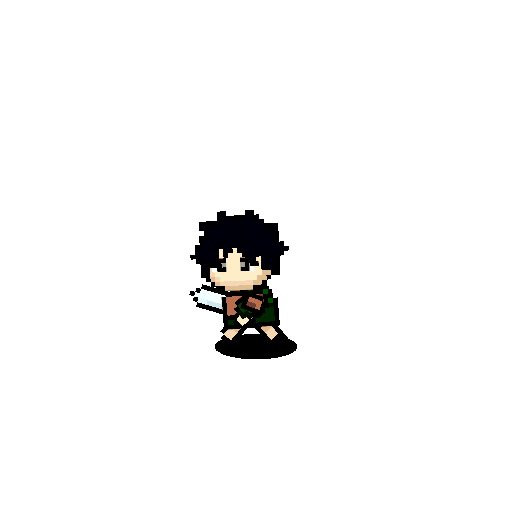
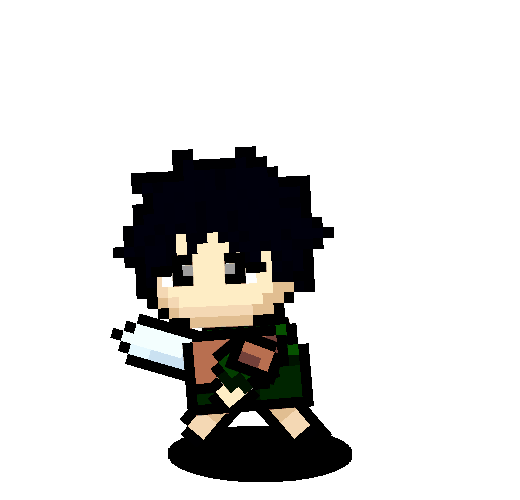
근거리,원거리 몬스터 이미지 변경

Changed region(s): [[0.2188, 0.27, 0.6875, 0.99]]

diff --git a/GP_FinalProj/RangedMonster.cpp b/GP_FinalProj/RangedMonster.cpp
@@ -11,14 +11,7 @@ RangedMonster::RangedMonster(int x, int y) : Monster(x, y), health(3), shootCool
         "../../Resource/Monster/shooter_frame3.png",
         "../../Resource/Monster/shooter_frame4.png",
         "../../Resource/Monster/shooter_frame5.png",
-        "../../Resource/Monster/shooter_frame6.png",
-        "../../Resource/Monster/shooter_frame7.png",
-        "../../Resource/Monster/shooter_frame8.png",
-        "../../Resource/Monster/shooter_frame9.png",
-        "../../Resource/Monster/shooter_frame10.png",
-        "../../Resource/Monster/shooter_frame11.png",
-        "../../Resource/Monster/shooter_frame12.png",
-        "../../Resource/Monster/shooter_frame13.png",
+        "../../Resource/Monster/shooter_frame6.png"
     };
     LoadTextures(frameFiles);
 }
@@ -82,7 +75,7 @@ void RangedMonster::ShootProjectile(const SDL_Rect& playerRect) {
         float velX = deltaX / distance * 200.0f; // Adjust speed as needed
         float velY = deltaY / distance * 200.0f; // Adjust speed as needed
 
-        SDL_Rect projectileRect = { x + 64, y + 64, 16, 16 }; // Initial projectile position and size
+        SDL_Rect projectileRect = { x + 12, y + 12, 16, 16 }; // Initial projectile position and size
         projectiles.push_back({ projectileRect, velX, velY, true });
     }
 }
@@ -93,7 +86,7 @@ std::vector<Projectile>& RangedMonster::GetProjectiles() {
 
 void RangedMonster::Render() {
     if (!textures.empty()) {
-        SDL_Rect rect = { x, y, 128, 128 };
+        SDL_Rect rect = { x, y, 52, 52 };
 
         // Apply hit effect
         Uint32 currentTime = SDL_GetTicks();

diff --git a/GP_FinalProj/MovingMonster.cpp b/GP_FinalProj/MovingMonster.cpp
@@ -10,18 +10,6 @@ MovingMonster::MovingMonster(int x, int y) : Monster(x, y), health(3), isStunned
         "../../Resource/Monster/slime_frame4.png",
         "../../Resource/Monster/slime_frame5.png"
     };
-
-    stunFrameFiles = {
-        "../../Resource/Monster/slime_stun_frame1.png",
-        "../../Resource/Monster/slime_stun_frame2.png",
-        "../../Resource/Monster/slime_stun_frame3.png",
-        "../../Resource/Monster/slime_stun_frame4.png",
-        "../../Resource/Monster/slime_stun_frame5.png",
-        "../../Resource/Monster/slime_stun_frame6.png",
-        "../../Resource/Monster/slime_stun_frame7.png",
-        "../../Resource/Monster/slime_stun_frame8.png"
-    };
-
     LoadTextures(normalFrameFiles);
 }
 
@@ -52,7 +40,7 @@ void MovingMonster::MoveTowardsPlayer(float deltaTime, const SDL_Rect& playerRec
 
 void MovingMonster::Render() {
     if (!textures.empty()) {
-        SDL_Rect rect = { x, y, 128, 128 };
+        SDL_Rect rect = { x, y, 52, 52 };
 
         // Apply hit effect
         Uint32 currentTime = SDL_GetTicks();

diff --git a/GP_FinalProj/Monster.cpp b/GP_FinalProj/Monster.cpp
@@ -45,7 +45,7 @@ void Monster::RenderHealthBar() {
     if (health < maxHealth) {
         int barWidth = 50;
         int barHeight = 5;
-        int barX = x + (128 - barWidth) / 2;  // 체력 바 x 좌표 계산
+        int barX = x + (128 - barWidth) / 2 - 35;  // 체력 바 x 좌표 계산
         int barY = y - 10;  // 체력 바 y 좌표 계산
 
         // 체력 바 배경 렌더링

diff --git a/GP_FinalProj/Entrance.cpp b/GP_FinalProj/Entrance.cpp
@@ -6,7 +6,7 @@
 
 Entrance::Entrance()
     : Map("../../Resource/Map/Entrance.png", 7) {  // maxMonsters 설정
-    spawnDelay = 10.0f;  // 초기 몬스터 생성 지연 시간 설정
+    spawnDelay = 1.0f;  // 초기 몬스터 생성 지연 시간 설정
 }
 
 void Entrance::SpawnMonsters() {
